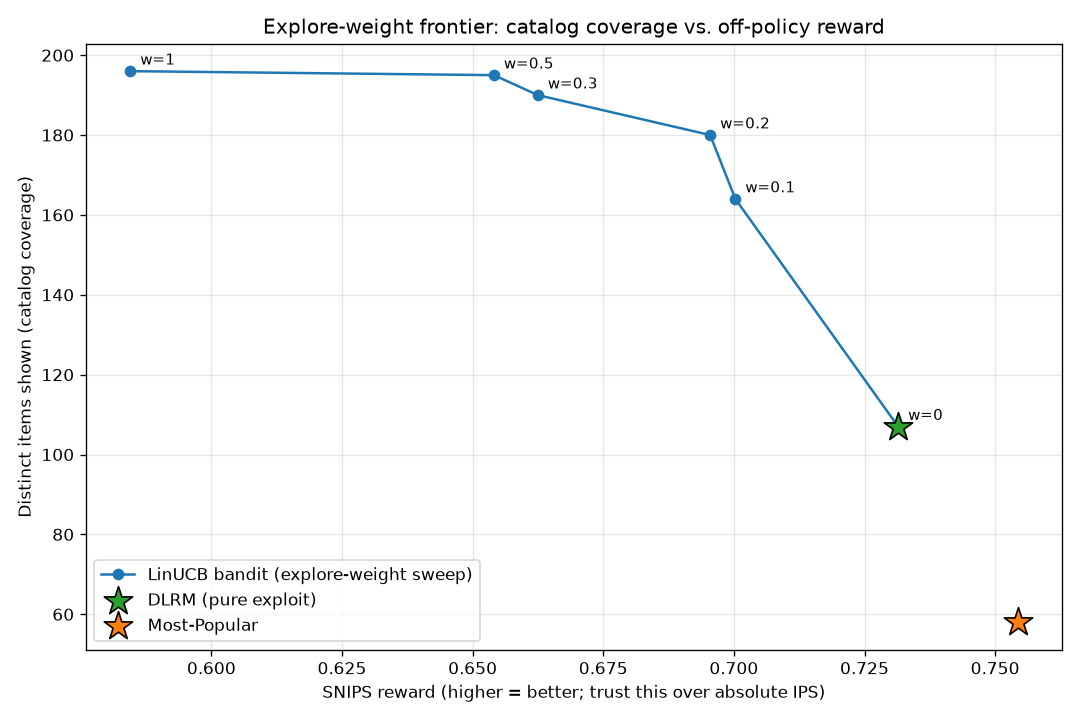
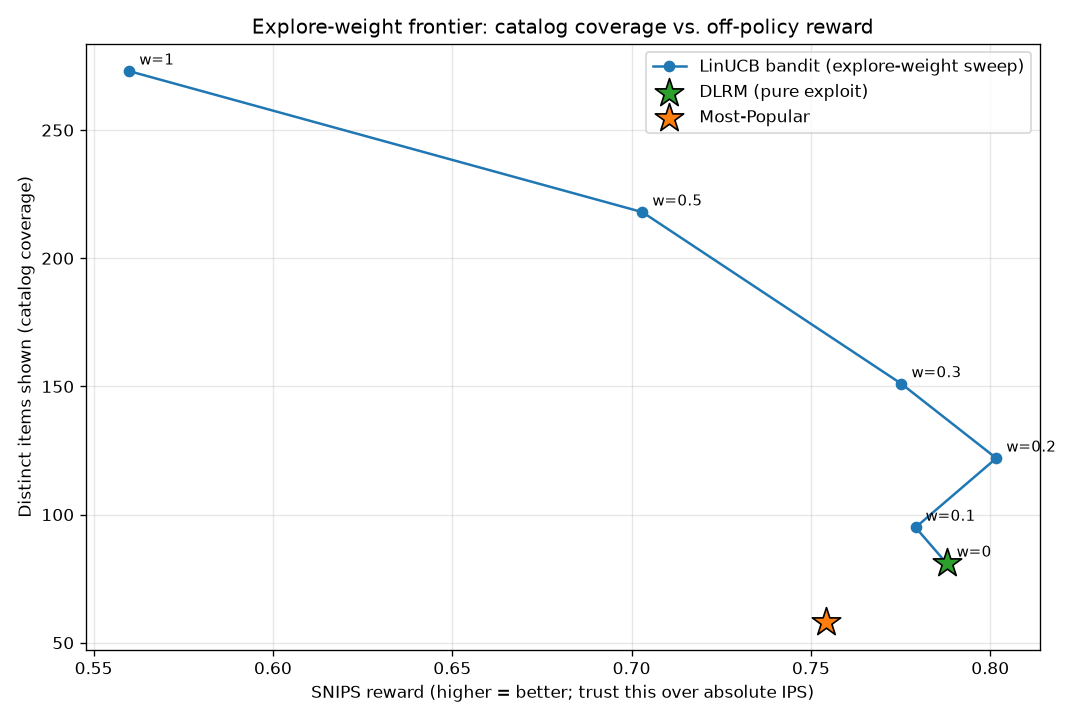
docs: refresh bandit explore-weight frontier from the retrained model

diff --git a/EVALUATION.md b/EVALUATION.md
@@ -97,17 +97,17 @@ final = (1 - w) · norm(dlrm_score) + w · norm(bonus)
 
 | Policy | SNIPS reward | Distinct items (coverage) | Mean pop-rank |
 |--------|-------------|---------------------------|---------------|
-| DLRM (pure exploit, `w=0`) | **0.731** | 107 | 0.847 |
-| Bandit `w=0.1` | 0.700 | 164 | 0.894 |
-| Bandit `w=0.2` (**served default**) | 0.696 | 180 | 0.905 |
-| Bandit `w=0.3` | 0.663 | 190 | 0.909 |
-| Bandit `w=0.5` | 0.654 | 195 | 0.914 |
-| Bandit `w=1.0` (pure explore) | 0.585 | 196 | 0.917 |
+| DLRM (pure exploit, `w=0`) | **0.788** | 81 | 0.848 |
+| Bandit `w=0.1` | 0.779 | 95 | 0.870 |
+| Bandit `w=0.2` (**served default**) | **0.802** | 122 | 0.904 |
+| Bandit `w=0.3` | 0.775 | 151 | 0.903 |
+| Bandit `w=0.5` | 0.703 | 218 | 0.887 |
+| Bandit `w=1.0` (pure explore) | 0.560 | 273 | 0.856 |
 | Most-Popular (reference) | 0.754 | 58 | 0.997 |
 
-**Owning the tradeoff:** exploration buys catalog coverage at a small, tunable reward cost. At the served `w = 0.2` the bandit keeps ~95% of the pure-DLRM SNIPS reward (0.696 vs 0.731) while lifting distinct-item coverage from 107 → 180 (+68%). Lower `w` (0.1) keeps ~96% of reward for +57 items. `w = 0` reproduces pure DLRM exactly (a sanity check that the blend is correct). The frontier plot is `experiments/results/bandit_explore_frontier.png` and the raw numbers are in `experiments/results/bandit_offline_eval.json`.
+**Owning the tradeoff:** exploration buys catalog coverage, and on this replay the cost is negative at the served operating point. At `w = 0.2` the bandit **matches (slightly exceeds) the pure-DLRM SNIPS reward** (0.802 vs 0.788, ~102%) while lifting distinct-item coverage from 81 → 122 (+51%) — a genuine free-lunch point where a little exploration surfaces more of the catalog without a measurable reward cost. Reward holds through `w = 0.3` (0.775, 151 items) and only drops off at `w = 0.5` (0.703, 218 items) and `w = 1.0` (0.560, 273 items), where coverage is highest. Lower `w` (0.1) keeps ~99% of reward for +14 items. `w = 0` reproduces pure DLRM exactly (a sanity check that the blend is correct). This near-costless small-`w` region is a replay artifact of a static dataset — treat it as evidence the mechanism is sound, not as a guaranteed online reward lift. The frontier plot is `experiments/results/bandit_explore_frontier.png` and the raw numbers are in `experiments/results/bandit_offline_eval.json`.
 
-**Propensity & popularity honesty.** MovieLens was not logged under a known randomized policy, so we use a *documented stand-in* propensity (softmax over training popularity), **renormalized within each event's candidate pool**. Because of that pool-local renormalization the **absolute IPS scale is uninterpretable** — use **SNIPS** (invariant to a constant scaling of the weights) for all cross-policy comparison. Most-Popular's higher SNIPS/replay reward is a **self-selection / replay artifact**: it retains a tiny, favorably-biased subset of events (only where the single most-popular candidate happened to be the logged, liked item), and its IPS collapses (0.40) and coverage is the lowest (58 distinct items). It is **not** evidence that popularity beats DLRM.
+**Propensity & popularity honesty.** MovieLens was not logged under a known randomized policy, so we use a *documented stand-in* propensity (softmax over training popularity), **renormalized within each event's candidate pool**. Because of that pool-local renormalization the **absolute IPS scale is uninterpretable** — use **SNIPS** (invariant to a constant scaling of the weights) for all cross-policy comparison. Most-Popular's SNIPS reward (0.754) sits **below** both pure DLRM and the served bandit, and its replay reward is a **self-selection / replay artifact**: it retains a tiny, favorably-biased subset of events (only where the single most-popular candidate happened to be the logged, liked item), while its IPS collapses (0.40) and its coverage is the lowest (58 distinct items). It is **not** evidence that popularity beats DLRM.
 
 **Honest caveats / limitations of this measurement:**
 

diff --git a/README.md b/README.md
@@ -271,15 +271,15 @@ Pure exploitation always shows a user the items the DLRM already scores highest,
 
 | explore weight `w` | reward (SNIPS) | catalog coverage (distinct items) |
 |---|---|---|
-| 0.0 (pure DLRM) | 0.731 | 107 |
-| 0.1 | 0.700 | 164 |
-| **0.2 (served default)** | **0.695** | **180** |
-| 0.3 | 0.662 | 190 |
-| 0.5 | 0.654 | 195 |
-| 1.0 (pure explore) | 0.585 | 196 |
+| 0.0 (pure DLRM) | 0.788 | 81 |
+| 0.1 | 0.779 | 95 |
+| **0.2 (served default)** | **0.802** | **122** |
+| 0.3 | 0.775 | 151 |
+| 0.5 | 0.703 | 218 |
+| 1.0 (pure explore) | 0.560 | 273 |
 | Most-Popular (reference) | 0.754 | 58 |
 
-At the default `w = 0.2` the bandit keeps **~95% of the DLRM's reward** while lifting **catalog coverage +68% (107 → 180 distinct items)**. Most-Popular's higher SNIPS is a self-selection/replay artifact — it retains a tiny, popularity-biased subset of events while surfacing only 58 items (SNIPS is the estimator to trust here; absolute IPS is uninterpretable). MovieLens is static, so exploration is replay-simulated — the true online lift can only come from a live A/B test.
+At the default `w = 0.2` the bandit **matches (slightly exceeds) the DLRM's reward** (SNIPS 0.802 vs 0.788, ~102%) while lifting **catalog coverage +51% (81 → 122 distinct items)** — a rare free-lunch point on this replay, so a little exploration is essentially costless here. Reward only starts to fall past `w = 0.3` (0.775, 151 items); coverage keeps climbing to `w = 1.0` (273 items). Most-Popular's SNIPS (0.754) sits below both pure DLRM and the served bandit while surfacing only 58 items — its replay reward is a self-selection/replay artifact (SNIPS is the estimator to trust here; absolute IPS is uninterpretable). MovieLens is static, so exploration is replay-simulated — the true online lift can only come from a live A/B test.
 
 ```bash
 # Explore-aware recommendations (returns dlrm_score, exploration_bonus, is_exploratory per item)
